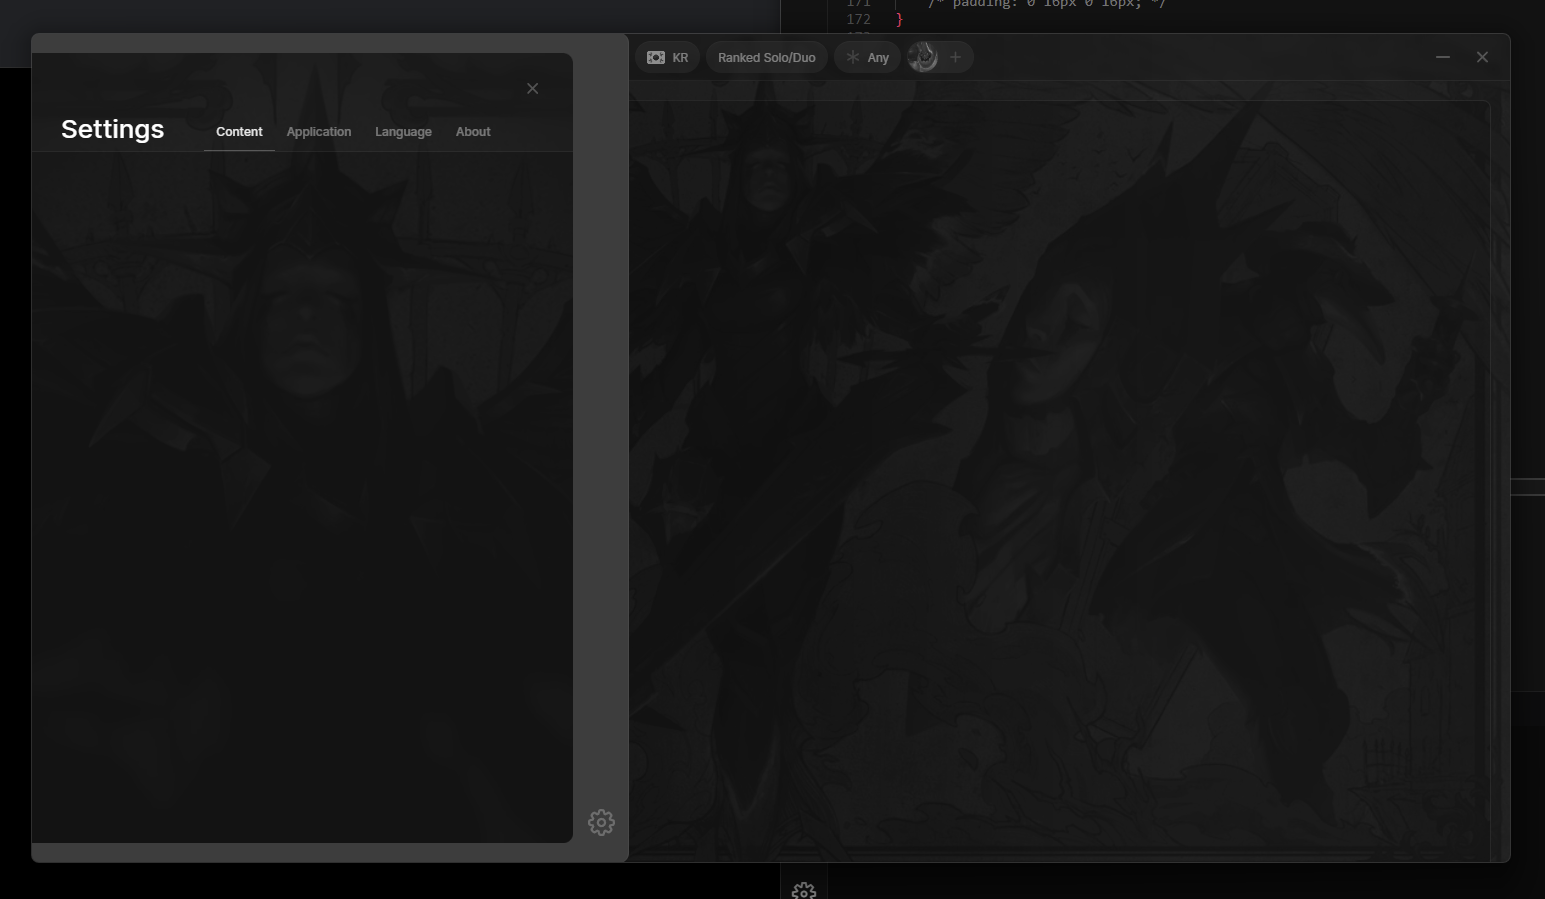
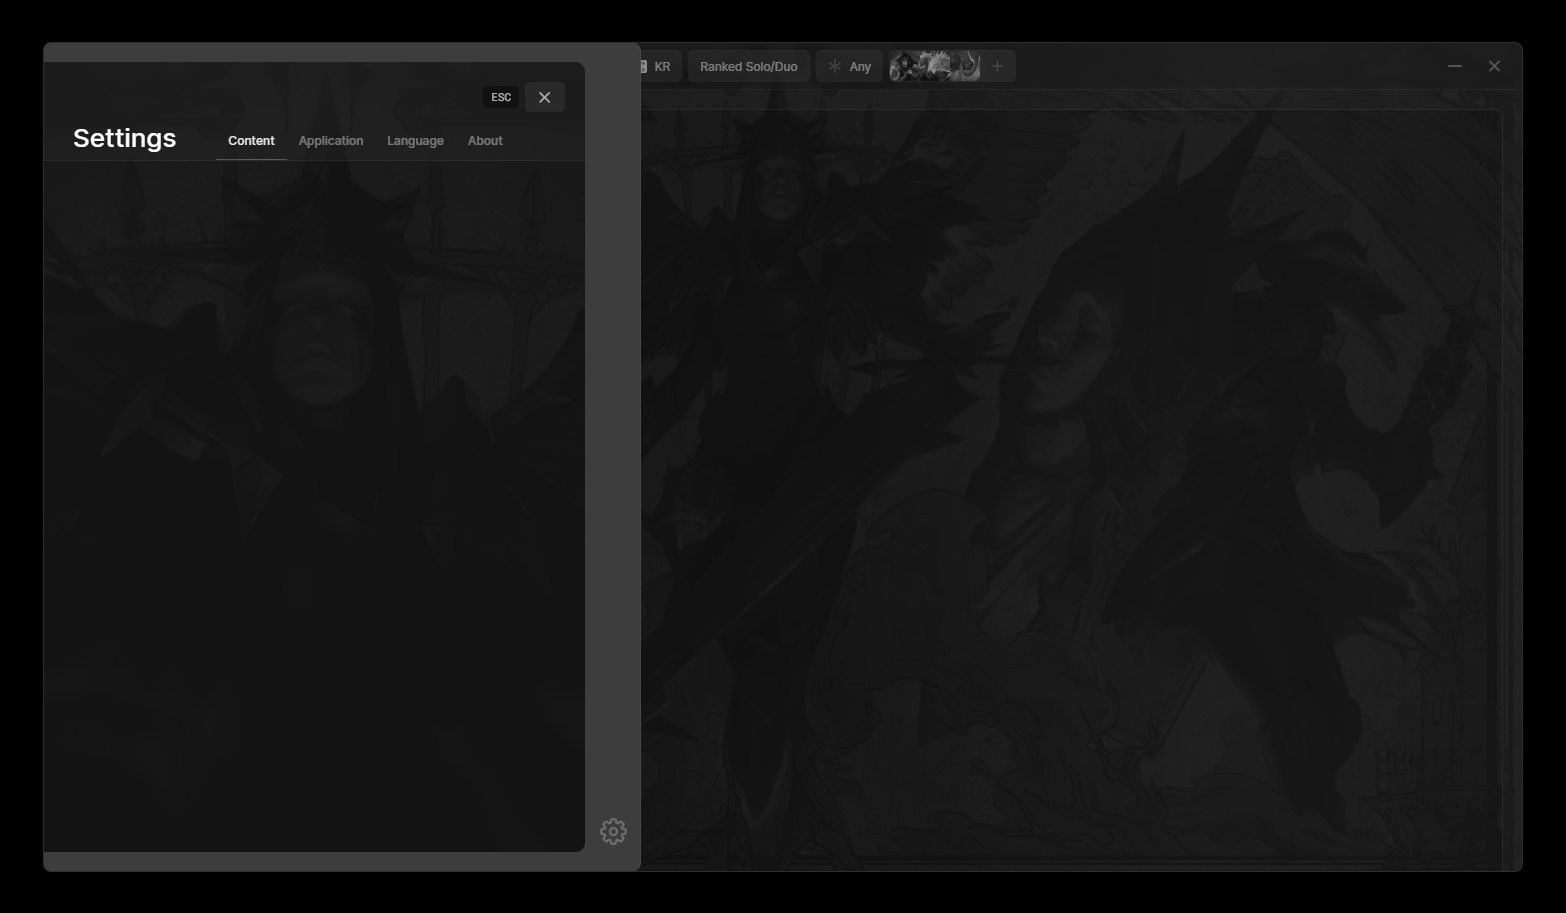
updated `current.png`

diff --git a/src/components/css/options.css b/src/components/css/options.css
@@ -111,7 +111,7 @@
     background-color: var(--button-normal);
     height: 31px;
     margin: 0 3px 0 3px;
-    border-radius: 16px;
+    border-radius: 6px;
     /* border-radius: 6px; */
     padding: 0 12px 0 0;
     transition: 0.10s;
@@ -127,7 +127,7 @@
     background-color: var(--button-normal);
     height: 31px;
     margin: 0 3px 0 3px;
-    border-radius: 16px;
+    border-radius: 6px;
     padding: 0 0 0 1px;
     transition: 0.10s;
     border-top: 1px solid rgba(255, 255, 255, 0.05);
@@ -156,7 +156,7 @@
     background-color: var(--button-normal);
     height: 31px;
     margin: 0 3px 0 3px;
-    border-radius: 16px;
+    border-radius: 6px;
     padding: 0 12px 0 0;
     transition: 0.10s;
     opacity: 0.5;
@@ -183,7 +183,7 @@
     background-color: var(--button-selected);
     height: 31px;
     margin: 0 3px 0 3px;
-    border-radius: 16px;
+    border-radius: 6px;
     padding: 0 12px 0 0;
     border-top: 1px solid rgba(255, 255, 255, 0.09);
     cursor: pointer;
@@ -237,7 +237,7 @@
     margin-left: 4px;
     width: 40 !important;
     max-width: 40 !important;
-    /* padding: 0 16px 0 16px; */
+    /* padding: 0 6px 0 6px; */
 }
 
 .section-close img {
@@ -277,8 +277,8 @@
 
 .image-role {
     display: block;
-    height: 16px;
-    width: 16px;
+    height: 6px;
+    width: 6px;
     object-fit: contain;
     opacity: 0.45;
     margin-right: 8px;
@@ -312,12 +312,12 @@
 }
 
 .options-button-champ-normal .champ-edge-left {
-    border-bottom-left-radius: 16px;
-    border-top-left-radius: 16px;
+    border-bottom-left-radius: 6px;
+    border-top-left-radius: 6px;
 }
 .options-button-champ-normal .champ-edge-right {
-    border-bottom-right-radius: 16px;
-    border-top-right-radius: 16px;
+    border-bottom-right-radius: 6px;
+    border-top-right-radius: 6px;
 }
 
 .options-button-selected .image-icon,

diff --git a/src/components/css/settings.css b/src/components/css/settings.css
@@ -152,7 +152,7 @@
     align-items: flex-end;
     align-content: flex-end;
     vertical-align: middle;
-    /* background-color: rgba(192, 34, 34, 0.279); */
+    background-color: rgba(30, 30, 30, 0.45);
     /* height: 50px; */
     padding: 20px 20px 10px 0;
     border-top-right-radius: 10px;
@@ -189,6 +189,7 @@
     display: flex;
     flex-direction: row;
     /* align-content: center; */
+    background-color: rgba(30, 30, 30, 0.45);
     /* background-color: rgba(0, 0, 255, 0.197); */
     /* padding: 0 0 7px 0; */
     border-bottom: 1px inset rgba(255,255,255,0.05);
